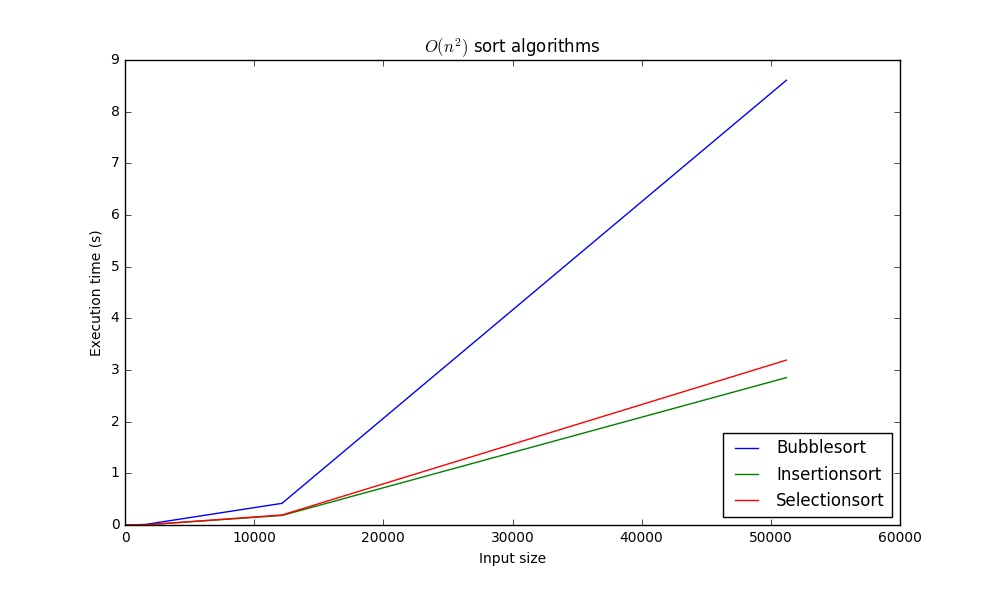
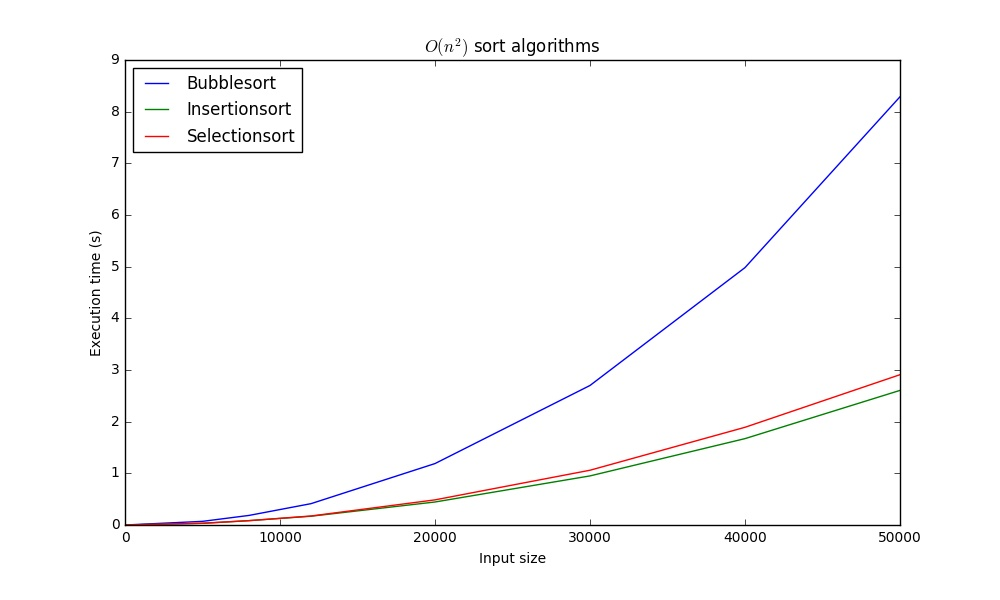
split the interval more properly

diff --git a/a1/test.py b/a1/test.py
@@ -10,14 +10,13 @@ import commands
 import time
 
 MAX = 15
-INT_MAX = 2**30;
+INT_MAX = 2**31;
+size = [5, 5000, 8000, 12000, 20000, 30000, 40000, 50000, int(0.25e7), int(0.5e7), int(1e7), int(1.5e7), int(2.0e7), int(2.5e7), int(3e7)]
 if __name__ == "__main__":
     for cases in range(MAX):
         with open('input{}'.format(cases), 'w') as w:
-            n = int(cases**5*50+5)
+            n = size[cases]
             w.write(str(n) + '\n')
             for i in range(n):
-                w.write(str(random.randint(-INT_MAX, INT_MAX)) + '\n')
+                w.write(str(random.randint(-INT_MAX, INT_MAX-1)) + '\n')
         print("Testcase{}".format(cases))
-
-    #os.system("./test.sh")

diff --git a/a1/same.py b/a1/same.py
@@ -1,0 +1,17 @@
+#!/usr/bin/python
+
+import sys
+reload(sys)
+sys.setdefaultencoding('utf-8')
+
+import random
+import os
+import commands
+import time
+
+if __name__ == "__main__":
+    n = 20000000
+    with open('input_', 'w') as w:
+        w.write(str(n)+'\n')
+        for i in range(n):
+            w.write('1\n')
